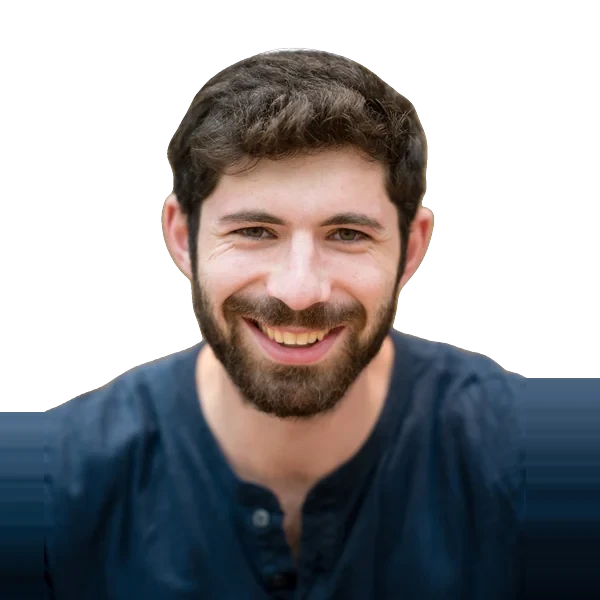
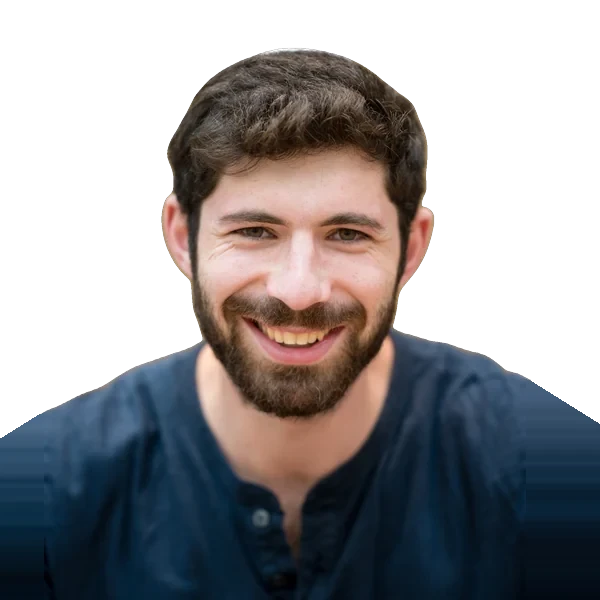
Bio pop-up: fixed-size rectangle photo; smoother Melnik shoulders

Changed region(s): [[0.87, 0.63, 1.0, 0.72], [0.0, 0.66, 0.06, 0.75]]

diff --git a/site/team.html b/site/team.html
@@ -9,7 +9,7 @@
 <link rel="icon" href="/media/rd/logo.webp">
 <link rel="preconnect" href="https://fonts.googleapis.com"><link rel="preconnect" href="https://fonts.gstatic.com" crossorigin>
 <link href="https://fonts.googleapis.com/css2?family=Nunito+Sans:wght@400;600;700;800&family=Roboto+Serif:opsz,wght@8..144,600;8..144,700;8..144,800&display=swap" rel="stylesheet">
-<link rel="stylesheet" href="/assets/rd.css?v=18">
+<link rel="stylesheet" href="/assets/rd.css?v=19">
 </head>
 <body>
 
@@ -35,7 +35,7 @@
 <section class="band purple" id="rabbis">
   <div class="wrap">
     <div class="h-center rv"><h2 class="h2">Our Team</h2><div class="rule" aria-hidden="true"></div><p class="az">(listed in alphabetical order)</p></div>
-    <div class="grid-team" id="madrichim"><button type="button" class="person" data-group="rabbis" data-name="Josh Aboody" data-role="Electives" data-img="/media/team2/josh-aboody.webp" data-bio="Mr. Josh Aboody was born and raised in Cleveland, Ohio, before spending two years in Israel- post high school. Upon his return to America, he went to Yeshivat Ner Yisrael in Baltimore followed by law school at the University of Maryland. An attorney, working for an investment bank in New York, Mr. Aboody and his family made aliyah in 2017 and he has taught Gemara and Jewish Thought in Yeshivat Moreshet Yerushalayim since 2018."><span class="ph"><img src="/media/team2/josh-aboody.webp" alt="" loading="lazy"></span><span class="nm">Josh Aboody</span><span class="rl">Electives</span><span class="more">VIEW BIO ⟶</span></button><button type="button" class="person" data-group="rabbis" data-name="Moshe Alouf" data-role="Night Seder · Electives" data-img="/media/team2/moshe-alouf.webp" data-bio="Moshe Alouf grew up in both Brooklyn, NY and Israel, giving him a unique perspective on Jewish life in the Diaspora and the Land of Israel. A proud graduate of Yeshivat Moreshet Yerushalayim (Class of 2017), he went on to serve in the Israel Defense Forces where he was a sergeant. Moshe holds a degree in Education from Herzog College in Israel and is dedicated to building meaningful connections between Torah learning, personal growth and strong educational values."><span class="ph"><img src="/media/team2/moshe-alouf.webp" alt="" loading="lazy"></span><span class="nm">Moshe Alouf</span><span class="rl">Night Seder · Electives</span><span class="more">VIEW BIO ⟶</span></button><button type="button" class="person" data-group="rabbis" data-name="Rabbi Shimon Hai Alouf" data-role="Halakha Seder Rabbi" data-img="/media/team2/shimon-hai-alouf.webp" data-bio="Born in Jerusalem, Israel, Rabbi Shimon Alouf was a close student and hazzan of Hakham Ovadia Yosef. He served for decades as the head rabbi of Ahaba VeAhva in Brooklyn, NY leading the Egyptian community as well as the Rosh Yeshivah of both Magen David Yeshivah and the Sephardic Rabbinical College, where he gave semikha to dozens of community rabbis. He is a highly respected halakhic authority of Sephardic Jewish communities around the world and upon moving back to Israel in 2022 has been teaching at Yeshivat Moreshet Yerushalayim."><span class="ph"><img src="/media/team2/shimon-hai-alouf.webp" alt="" loading="lazy"></span><span class="nm">Rabbi Shimon Hai Alouf</span><span class="rl">Halakha Seder Rabbi</span><span class="more">VIEW BIO ⟶</span></button><button type="button" class="person" data-group="madrichim" data-name="Etay Bakish" data-role="Head Madrich" data-img="/media/team2/etay-bakish.webp" data-bio="Born and raised in Israel, Etay Bakish studied at the Hesder Yeshiva in Ma’ale Adumim before serving as a combat soldier in the Golani Brigade. He has been a madrich at Yeshivat Moreshet Yerushalayim since Sept 2024."><span class="ph"><img src="/media/team2/etay-bakish.webp" alt="" loading="lazy"></span><span class="nm">Etay Bakish</span><span class="rl">Head Madrich</span><span class="more">VIEW BIO ⟶</span></button><button type="button" class="person" data-group="rabbis" data-name="Rabbi Edward Benjamin" data-role="Director of Recruitment" data-img="/media/team2/edward-benjamin.webp" data-bio="Rabbi Edward Benjamin, who has been involved with Yeshivat Moreshet Yerushalayim since its inception, graduated from Hillel Yeshiva High School and attended Yeshivat Torah Shraga for a year. He then attended and graduated CUNY with a BA degree in Philosophy and Jewish Studies while attending the Sephardic Rabbinical College as a part time student. While working in Yeshivat Moreshet Yerushalayim, Rabbi Benjamin is also pursuing semikha from the Chief Rabbinate in Israel and has, to date, passed the rabbinic exams on abelut, nidda, and huppa vkiddushin. He also holds a master&#x27;s degree in Jewish Education from Yeshiva University&#x27;s Azrieli School of Jewish Education."><span class="ph"><img src="/media/team2/edward-benjamin.webp" alt="" loading="lazy"></span><span class="nm">Rabbi Edward Benjamin</span><span class="rl">Director of Recruitment</span><span class="more">VIEW BIO ⟶</span></button><button type="button" class="person" data-group="rabbis" data-name="Dr. Charles Cohen" data-role="Night Seder" data-img="/media/team2/charles-cohen.webp" data-bio="Dr. Charles Cohen grew up in Brooklyn, New York, where he attended Magen David Yeshivah High School. Afterward, he spent a year studying at Yeshivah Torat Shraga before continuing his learning for five years in the Sephardic Rabbinical College half-day program under the guidance of Rabbi Shimon Alouf and Rabbi Harold Sutton. He went on to earn a bachelor’s degree in psychology from Brooklyn College and later received his Doctor of Optometry (O.D.) from the SUNY College of Optometry. He started his practice in 2021 and four years later made aliyah in the summer of 2025, with his wife and three children."><span class="ph"><img src="/media/team2/charles-cohen.webp" alt="" loading="lazy"></span><span class="nm">Dr. Charles Cohen</span><span class="rl">Night Seder</span><span class="more">VIEW BIO ⟶</span></button><button type="button" class="person" data-group="rabbis" data-name="Ezra Dweck" data-role="Afternoon Seder" data-img="/media/team2/ezra-dweck.webp" data-bio="Ezra Dweck grew up in Brooklyn, New York, where he attended Barkai Yeshivah Elementary School and DRS High School. He then spent three years studying at Yeshivat Birkat Moshe in Ma’ale Adumim, followed by four years as a madrich at Yeshivat Moreshet Yerushalayim, during which he earned a bachelor’s degree in Computer Science from Machon Lev. Afterward, he served as a software engineer in the IDF. Ezra currently lives with his wife in Nachlaot, Jerusalem, where he teaches at Yeshivat Moreshet Yerushalayim"><span class="ph"><img src="/media/team2/ezra-dweck.webp" alt="" loading="lazy"></span><span class="nm">Ezra Dweck</span><span class="rl">Afternoon Seder</span><span class="more">VIEW BIO ⟶</span></button><button type="button" class="person" data-group="rabbis" data-name="Rabbi Tanchum Gold" data-role="Morning Seder Rabbi" data-img="/media/team2/tanchum-gold.webp" data-bio="Born in Chicago, Rabbi Gold moved to Israel at a young age. He studied and taught at Yeshivat Birkat Moshe in Ma’ale Adumim for 15 years and served as an infantry soldier in the IDF. Rabbi Gold holds a Bachelor of Education degree in Talmud and Tanach, as well as a law degree, and received his Semikha (Yore Yoreh/Yadin Yadin) from the Chief Rabbinate of Israel. He has served as Rabbi of the American program in Yeshivat Birkat Moshe since 2010, teaches in the Yeshiva’s Kollel, and he actively sits as a Dayan in the local Beit Din. He is also the rabbi of a congregation in Chashmonaim and has been teaching in Yeshivat Moreshet Yerushalayim since 2017."><span class="ph"><img src="/media/team2/tanchum-gold.webp" alt="" loading="lazy"></span><span class="nm">Rabbi Tanchum Gold</span><span class="rl">Morning Seder Rabbi</span><span class="more">VIEW BIO ⟶</span></button><button type="button" class="person" data-group="madrichim" data-name="Yehuda Melnik" data-role="Head Madrich" data-img="/media/team2/yehuda-melnik.webp?v=2" data-bio="Born and raised in Israel, Yehuda Melnick studied at the Hesder Yeshiva in Ma’ale Adumim before serving as a combat soldier in the Golani Brigade. Currently he is studying in Hebrew University. He has been a madrich at Yeshivat Moreshet Yerushalayim since Sept 2024."><span class="ph"><img src="/media/team2/yehuda-melnik.webp?v=2" alt="" loading="lazy"></span><span class="nm">Yehuda Melnik</span><span class="rl">Head Madrich</span><span class="more">VIEW BIO ⟶</span></button><button type="button" class="person" data-group="rabbis" data-name="Rabbi Yitzchak Mirsky" data-role="Morning Seder Rabbi" data-img="/media/team2/yitzchak-mirsky.webp" data-bio="Born in Jerusalem, Rabbi Yitzchak Mirsky was a student of Rabbi Yechezkel Sarna of Yeshivat Chevron. Rabbi Mirsky served as Rosh Yeshiva of BMT and was a longtime educator of many students from the Sephardic community. In 2003, he moved to Brooklyn, where he served as Rosh Kollel of the Sephardic Rabbinical College and taught Semicha students, many of whom are practicing members of the Rabbinate today. He returned to Israel in 2014, where he continues to dedicate himself to educating youth. Rabbi Mirsky is the author of the well-known series Hegyonei Halacha, Haggadat Hegyonei Halacha and Haggadah leSepharadim. Currently, Rabbi Mirsky lives in Jerusalem, where he continues to write and teach in Yeshivat Moreshet Yerushalayim."><span class="ph"><img src="/media/team2/yitzchak-mirsky.webp" alt="" loading="lazy"></span><span class="nm">Rabbi Yitzchak Mirsky</span><span class="rl">Morning Seder Rabbi</span><span class="more">VIEW BIO ⟶</span></button><button type="button" class="person" data-group="rabbis" data-name="Gitta Neufeld" data-role="Administrator · Registrar" data-img="/media/team2/gitta-neufeld.webp" data-bio="Mrs. Gitta J. Neufeld earned her BA and Masters from Queens College in communications, with  a second Masters from Pace University in School Administration and Supervision. She is currently completing her doctoral dissertation, researching factors affecting young women&#x27;s post-secondary educational and career choices. Mrs. Neufeld has over 40 years of teaching and leadership experience in both yeshivot and public schools. Her past positions in the Sephardic Community included Director of Education at the Allegra Franco School of Educational Leadership, Director of Pedagogy for the Sephardic Rabbinical College and Educational Consultant and team leader of PROPEL Ed. In May 2012, the Covenant Foundation announced that, in recognition of her work in the Community, Mrs. Neufeld was a recipient of the prestigious Excellence in Education Award, which was presented at a national event in November 2012. The Neufelds made Aliyah in 2024, and she is currently Yeshivat Moreshet Yerushalayim‘s registrar, administrator and - her favorite title- &quot;school grandma.”"><span class="ph"><img src="/media/team2/gitta-neufeld.webp" alt="" loading="lazy"></span><span class="nm">Gitta Neufeld</span><span class="rl">Administrator · Registrar</span><span class="more">VIEW BIO ⟶</span></button><button type="button" class="person" data-group="rabbis" data-name="Rabbi Joseph Salem" data-role="Morning Seder Rabbi" data-img="/media/team2/joseph-salem.webp" data-bio="Rabbi Joseph Salem grew up in Brooklyn, New York, where he attended Shaare Torah Elementary and Magen David Yeshivah High School. Afterward, he studied in Mitzpeh Yericho, Israel, under the guidance of Rabbi Shabtai Sabato. He continued his learning in the Sephardic Rabbinical College from Rabbi Shimon Alouf and Rabbi Harold Sutton. He works in his family business, in the textiles and home fashion industry, teaches his daf yomi shiur on zoom and is a Morning Seder Rabbi at Yeshivat Moreshet Yerushalayim. He, his wife Loraine and their six children currently live in Alon Shvut."><span class="ph"><img src="/media/team2/joseph-salem.webp" alt="" loading="lazy"></span><span class="nm">Rabbi Joseph Salem</span><span class="rl">Morning Seder Rabbi</span><span class="more">VIEW BIO ⟶</span></button><button type="button" class="person" data-group="rabbis" data-name="Rabbi Yehoshua Shani" data-role="Executive Director" data-img="/media/team2/yehoshua-shani.webp" data-bio="Rabbi Yehoshua Shani, a resident of Kiryat Arba, studied at Yeshivat HaKotel and graduated from the Lifshitz Teachers’ College. He previously served as principal of the Orot Etzion School in Efrat, and later as principal of the Reishit Chochma School in Moscow. He also served as Rosh Yeshiva of Barkai Yeshivah in New York. Since its inception, he has been the Israel Executive Director of Yeshivat Moreshet Yerushalayim."><span class="ph"><img src="/media/team2/yehoshua-shani.webp" alt="" loading="lazy"></span><span class="nm">Rabbi Yehoshua Shani</span><span class="rl">Executive Director</span><span class="more">VIEW BIO ⟶</span></button><button type="button" class="person" data-group="rabbis" data-name="Rabbi Yaakov Tessler" data-role="Director of Curriculum &amp; Student Activities" data-img="/media/team2/yaakov-tessler.webp" data-bio="Our Director of Student Life &amp; Activities, Rabbi Yaakov Tessler’s family made aliyah from Flatbush. His father was one of the first students of Rabbi Shimon Alouf. Rabbi Tessler studied for 17 years in Yeshivat Merkaz HaRav, where he was a very close student of the Rosh Yeshivah, Rabbi Yaakov Shapira. Rabbi Tessler also holds a Bachelor&#x27;s degree in education from Orot Yisrael College for Education."><span class="ph"><img src="/media/team2/yaakov-tessler.webp" alt="" loading="lazy"></span><span class="nm">Rabbi Yaakov Tessler</span><span class="rl">Director of Curriculum &amp; Student Activities</span><span class="more">VIEW BIO ⟶</span></button></div>
+    <div class="grid-team" id="madrichim"><button type="button" class="person" data-group="rabbis" data-name="Josh Aboody" data-role="Electives" data-img="/media/team2/josh-aboody.webp" data-bio="Mr. Josh Aboody was born and raised in Cleveland, Ohio, before spending two years in Israel- post high school. Upon his return to America, he went to Yeshivat Ner Yisrael in Baltimore followed by law school at the University of Maryland. An attorney, working for an investment bank in New York, Mr. Aboody and his family made aliyah in 2017 and he has taught Gemara and Jewish Thought in Yeshivat Moreshet Yerushalayim since 2018."><span class="ph"><img src="/media/team2/josh-aboody.webp" alt="" loading="lazy"></span><span class="nm">Josh Aboody</span><span class="rl">Electives</span><span class="more">VIEW BIO ⟶</span></button><button type="button" class="person" data-group="rabbis" data-name="Moshe Alouf" data-role="Night Seder · Electives" data-img="/media/team2/moshe-alouf.webp" data-bio="Moshe Alouf grew up in both Brooklyn, NY and Israel, giving him a unique perspective on Jewish life in the Diaspora and the Land of Israel. A proud graduate of Yeshivat Moreshet Yerushalayim (Class of 2017), he went on to serve in the Israel Defense Forces where he was a sergeant. Moshe holds a degree in Education from Herzog College in Israel and is dedicated to building meaningful connections between Torah learning, personal growth and strong educational values."><span class="ph"><img src="/media/team2/moshe-alouf.webp" alt="" loading="lazy"></span><span class="nm">Moshe Alouf</span><span class="rl">Night Seder · Electives</span><span class="more">VIEW BIO ⟶</span></button><button type="button" class="person" data-group="rabbis" data-name="Rabbi Shimon Hai Alouf" data-role="Halakha Seder Rabbi" data-img="/media/team2/shimon-hai-alouf.webp" data-bio="Born in Jerusalem, Israel, Rabbi Shimon Alouf was a close student and hazzan of Hakham Ovadia Yosef. He served for decades as the head rabbi of Ahaba VeAhva in Brooklyn, NY leading the Egyptian community as well as the Rosh Yeshivah of both Magen David Yeshivah and the Sephardic Rabbinical College, where he gave semikha to dozens of community rabbis. He is a highly respected halakhic authority of Sephardic Jewish communities around the world and upon moving back to Israel in 2022 has been teaching at Yeshivat Moreshet Yerushalayim."><span class="ph"><img src="/media/team2/shimon-hai-alouf.webp" alt="" loading="lazy"></span><span class="nm">Rabbi Shimon Hai Alouf</span><span class="rl">Halakha Seder Rabbi</span><span class="more">VIEW BIO ⟶</span></button><button type="button" class="person" data-group="madrichim" data-name="Etay Bakish" data-role="Head Madrich" data-img="/media/team2/etay-bakish.webp" data-bio="Born and raised in Israel, Etay Bakish studied at the Hesder Yeshiva in Ma’ale Adumim before serving as a combat soldier in the Golani Brigade. He has been a madrich at Yeshivat Moreshet Yerushalayim since Sept 2024."><span class="ph"><img src="/media/team2/etay-bakish.webp" alt="" loading="lazy"></span><span class="nm">Etay Bakish</span><span class="rl">Head Madrich</span><span class="more">VIEW BIO ⟶</span></button><button type="button" class="person" data-group="rabbis" data-name="Rabbi Edward Benjamin" data-role="Director of Recruitment" data-img="/media/team2/edward-benjamin.webp" data-bio="Rabbi Edward Benjamin, who has been involved with Yeshivat Moreshet Yerushalayim since its inception, graduated from Hillel Yeshiva High School and attended Yeshivat Torah Shraga for a year. He then attended and graduated CUNY with a BA degree in Philosophy and Jewish Studies while attending the Sephardic Rabbinical College as a part time student. While working in Yeshivat Moreshet Yerushalayim, Rabbi Benjamin is also pursuing semikha from the Chief Rabbinate in Israel and has, to date, passed the rabbinic exams on abelut, nidda, and huppa vkiddushin. He also holds a master&#x27;s degree in Jewish Education from Yeshiva University&#x27;s Azrieli School of Jewish Education."><span class="ph"><img src="/media/team2/edward-benjamin.webp" alt="" loading="lazy"></span><span class="nm">Rabbi Edward Benjamin</span><span class="rl">Director of Recruitment</span><span class="more">VIEW BIO ⟶</span></button><button type="button" class="person" data-group="rabbis" data-name="Dr. Charles Cohen" data-role="Night Seder" data-img="/media/team2/charles-cohen.webp" data-bio="Dr. Charles Cohen grew up in Brooklyn, New York, where he attended Magen David Yeshivah High School. Afterward, he spent a year studying at Yeshivah Torat Shraga before continuing his learning for five years in the Sephardic Rabbinical College half-day program under the guidance of Rabbi Shimon Alouf and Rabbi Harold Sutton. He went on to earn a bachelor’s degree in psychology from Brooklyn College and later received his Doctor of Optometry (O.D.) from the SUNY College of Optometry. He started his practice in 2021 and four years later made aliyah in the summer of 2025, with his wife and three children."><span class="ph"><img src="/media/team2/charles-cohen.webp" alt="" loading="lazy"></span><span class="nm">Dr. Charles Cohen</span><span class="rl">Night Seder</span><span class="more">VIEW BIO ⟶</span></button><button type="button" class="person" data-group="rabbis" data-name="Ezra Dweck" data-role="Afternoon Seder" data-img="/media/team2/ezra-dweck.webp" data-bio="Ezra Dweck grew up in Brooklyn, New York, where he attended Barkai Yeshivah Elementary School and DRS High School. He then spent three years studying at Yeshivat Birkat Moshe in Ma’ale Adumim, followed by four years as a madrich at Yeshivat Moreshet Yerushalayim, during which he earned a bachelor’s degree in Computer Science from Machon Lev. Afterward, he served as a software engineer in the IDF. Ezra currently lives with his wife in Nachlaot, Jerusalem, where he teaches at Yeshivat Moreshet Yerushalayim"><span class="ph"><img src="/media/team2/ezra-dweck.webp" alt="" loading="lazy"></span><span class="nm">Ezra Dweck</span><span class="rl">Afternoon Seder</span><span class="more">VIEW BIO ⟶</span></button><button type="button" class="person" data-group="rabbis" data-name="Rabbi Tanchum Gold" data-role="Morning Seder Rabbi" data-img="/media/team2/tanchum-gold.webp" data-bio="Born in Chicago, Rabbi Gold moved to Israel at a young age. He studied and taught at Yeshivat Birkat Moshe in Ma’ale Adumim for 15 years and served as an infantry soldier in the IDF. Rabbi Gold holds a Bachelor of Education degree in Talmud and Tanach, as well as a law degree, and received his Semikha (Yore Yoreh/Yadin Yadin) from the Chief Rabbinate of Israel. He has served as Rabbi of the American program in Yeshivat Birkat Moshe since 2010, teaches in the Yeshiva’s Kollel, and he actively sits as a Dayan in the local Beit Din. He is also the rabbi of a congregation in Chashmonaim and has been teaching in Yeshivat Moreshet Yerushalayim since 2017."><span class="ph"><img src="/media/team2/tanchum-gold.webp" alt="" loading="lazy"></span><span class="nm">Rabbi Tanchum Gold</span><span class="rl">Morning Seder Rabbi</span><span class="more">VIEW BIO ⟶</span></button><button type="button" class="person" data-group="madrichim" data-name="Yehuda Melnik" data-role="Head Madrich" data-img="/media/team2/yehuda-melnik.webp?v=3" data-bio="Born and raised in Israel, Yehuda Melnick studied at the Hesder Yeshiva in Ma’ale Adumim before serving as a combat soldier in the Golani Brigade. Currently he is studying in Hebrew University. He has been a madrich at Yeshivat Moreshet Yerushalayim since Sept 2024."><span class="ph"><img src="/media/team2/yehuda-melnik.webp?v=3" alt="" loading="lazy"></span><span class="nm">Yehuda Melnik</span><span class="rl">Head Madrich</span><span class="more">VIEW BIO ⟶</span></button><button type="button" class="person" data-group="rabbis" data-name="Rabbi Yitzchak Mirsky" data-role="Morning Seder Rabbi" data-img="/media/team2/yitzchak-mirsky.webp" data-bio="Born in Jerusalem, Rabbi Yitzchak Mirsky was a student of Rabbi Yechezkel Sarna of Yeshivat Chevron. Rabbi Mirsky served as Rosh Yeshiva of BMT and was a longtime educator of many students from the Sephardic community. In 2003, he moved to Brooklyn, where he served as Rosh Kollel of the Sephardic Rabbinical College and taught Semicha students, many of whom are practicing members of the Rabbinate today. He returned to Israel in 2014, where he continues to dedicate himself to educating youth. Rabbi Mirsky is the author of the well-known series Hegyonei Halacha, Haggadat Hegyonei Halacha and Haggadah leSepharadim. Currently, Rabbi Mirsky lives in Jerusalem, where he continues to write and teach in Yeshivat Moreshet Yerushalayim."><span class="ph"><img src="/media/team2/yitzchak-mirsky.webp" alt="" loading="lazy"></span><span class="nm">Rabbi Yitzchak Mirsky</span><span class="rl">Morning Seder Rabbi</span><span class="more">VIEW BIO ⟶</span></button><button type="button" class="person" data-group="rabbis" data-name="Gitta Neufeld" data-role="Administrator · Registrar" data-img="/media/team2/gitta-neufeld.webp" data-bio="Mrs. Gitta J. Neufeld earned her BA and Masters from Queens College in communications, with  a second Masters from Pace University in School Administration and Supervision. She is currently completing her doctoral dissertation, researching factors affecting young women&#x27;s post-secondary educational and career choices. Mrs. Neufeld has over 40 years of teaching and leadership experience in both yeshivot and public schools. Her past positions in the Sephardic Community included Director of Education at the Allegra Franco School of Educational Leadership, Director of Pedagogy for the Sephardic Rabbinical College and Educational Consultant and team leader of PROPEL Ed. In May 2012, the Covenant Foundation announced that, in recognition of her work in the Community, Mrs. Neufeld was a recipient of the prestigious Excellence in Education Award, which was presented at a national event in November 2012. The Neufelds made Aliyah in 2024, and she is currently Yeshivat Moreshet Yerushalayim‘s registrar, administrator and - her favorite title- &quot;school grandma.”"><span class="ph"><img src="/media/team2/gitta-neufeld.webp" alt="" loading="lazy"></span><span class="nm">Gitta Neufeld</span><span class="rl">Administrator · Registrar</span><span class="more">VIEW BIO ⟶</span></button><button type="button" class="person" data-group="rabbis" data-name="Rabbi Joseph Salem" data-role="Morning Seder Rabbi" data-img="/media/team2/joseph-salem.webp" data-bio="Rabbi Joseph Salem grew up in Brooklyn, New York, where he attended Shaare Torah Elementary and Magen David Yeshivah High School. Afterward, he studied in Mitzpeh Yericho, Israel, under the guidance of Rabbi Shabtai Sabato. He continued his learning in the Sephardic Rabbinical College from Rabbi Shimon Alouf and Rabbi Harold Sutton. He works in his family business, in the textiles and home fashion industry, teaches his daf yomi shiur on zoom and is a Morning Seder Rabbi at Yeshivat Moreshet Yerushalayim. He, his wife Loraine and their six children currently live in Alon Shvut."><span class="ph"><img src="/media/team2/joseph-salem.webp" alt="" loading="lazy"></span><span class="nm">Rabbi Joseph Salem</span><span class="rl">Morning Seder Rabbi</span><span class="more">VIEW BIO ⟶</span></button><button type="button" class="person" data-group="rabbis" data-name="Rabbi Yehoshua Shani" data-role="Executive Director" data-img="/media/team2/yehoshua-shani.webp" data-bio="Rabbi Yehoshua Shani, a resident of Kiryat Arba, studied at Yeshivat HaKotel and graduated from the Lifshitz Teachers’ College. He previously served as principal of the Orot Etzion School in Efrat, and later as principal of the Reishit Chochma School in Moscow. He also served as Rosh Yeshiva of Barkai Yeshivah in New York. Since its inception, he has been the Israel Executive Director of Yeshivat Moreshet Yerushalayim."><span class="ph"><img src="/media/team2/yehoshua-shani.webp" alt="" loading="lazy"></span><span class="nm">Rabbi Yehoshua Shani</span><span class="rl">Executive Director</span><span class="more">VIEW BIO ⟶</span></button><button type="button" class="person" data-group="rabbis" data-name="Rabbi Yaakov Tessler" data-role="Director of Curriculum &amp; Student Activities" data-img="/media/team2/yaakov-tessler.webp" data-bio="Our Director of Student Life &amp; Activities, Rabbi Yaakov Tessler’s family made aliyah from Flatbush. His father was one of the first students of Rabbi Shimon Alouf. Rabbi Tessler studied for 17 years in Yeshivat Merkaz HaRav, where he was a very close student of the Rosh Yeshivah, Rabbi Yaakov Shapira. Rabbi Tessler also holds a Bachelor&#x27;s degree in education from Orot Yisrael College for Education."><span class="ph"><img src="/media/team2/yaakov-tessler.webp" alt="" loading="lazy"></span><span class="nm">Rabbi Yaakov Tessler</span><span class="rl">Director of Curriculum &amp; Student Activities</span><span class="more">VIEW BIO ⟶</span></button></div>
   </div>
 </section>
 <section class="band purple tight" id="staff" style="padding-top:0">

diff --git a/site/assets/rd.css b/site/assets/rd.css
@@ -560,9 +560,7 @@ dialog.bio .bio-in .ph img{border-radius:50%;width:100%;height:auto;aspect-ratio
   .grid-team .person .more{margin-top:0;align-self:end}
   /* bio: rectangle photo on gold, fills the left side */
   dialog.bio{max-width:900px}
-  dialog.bio .bio-in{grid-template-columns:320px minmax(0,1fr);min-height:400px}
-  dialog.bio .bio-in .ph{padding:0!important;display:block!important;background:var(--gold)}
-  dialog.bio .bio-in .ph img{border-radius:0!important;width:100%!important;height:100%!important;aspect-ratio:auto!important;object-fit:cover;object-position:50% 0;display:block}
+  dialog.bio .bio-in{grid-template-columns:300px minmax(0,1fr)}
   dialog.bio .bio-in .tx{justify-content:center;padding:40px 44px}
   .board{max-width:900px;white-space:nowrap}
   /* schedule: equal day columns, Friday football at the top */
@@ -680,8 +678,8 @@ dialog.bio .bio-in .ph img{border-radius:50%;width:100%;height:auto;aspect-ratio
 /* bio pop-up: same-size rectangle photo, zoomed out */
 dialog.bio .bio-in{align-items:start}
 dialog.bio .bio-in .ph{background:none;padding:36px 0 36px 36px;display:block;height:auto}
-dialog.bio .bio-in .ph img{display:block;width:244px;height:300px;aspect-ratio:auto;border-radius:0;background:var(--gold);object-fit:contain;object-position:50% 100%;padding:44px 22px 0;box-sizing:border-box}
+dialog.bio .bio-in .ph img{display:block;width:244px;height:300px;aspect-ratio:auto;border-radius:0;background:var(--gold);object-fit:contain;object-position:50% 100%;padding:24px 0 0;box-sizing:border-box}
 @media (max-width:820px){
   dialog.bio .bio-in .ph{padding:28px 0 0;height:auto;display:flex;justify-content:center}
-  dialog.bio .bio-in .ph img{width:200px;height:246px;padding:36px 18px 0}
+  dialog.bio .bio-in .ph img{width:200px;height:246px;padding:20px 0 0}
 }

diff --git a/site/404.html b/site/404.html
@@ -9,7 +9,7 @@
 <link rel="icon" href="/media/rd/logo.webp">
 <link rel="preconnect" href="https://fonts.googleapis.com"><link rel="preconnect" href="https://fonts.gstatic.com" crossorigin>
 <link href="https://fonts.googleapis.com/css2?family=Nunito+Sans:wght@400;600;700;800&family=Roboto+Serif:opsz,wght@8..144,600;8..144,700;8..144,800&display=swap" rel="stylesheet">
-<link rel="stylesheet" href="/assets/rd.css?v=18">
+<link rel="stylesheet" href="/assets/rd.css?v=19">
 </head>
 <body>
 

diff --git a/site/alumni.html b/site/alumni.html
@@ -9,7 +9,7 @@
 <link rel="icon" href="/media/rd/logo.webp">
 <link rel="preconnect" href="https://fonts.googleapis.com"><link rel="preconnect" href="https://fonts.gstatic.com" crossorigin>
 <link href="https://fonts.googleapis.com/css2?family=Nunito+Sans:wght@400;600;700;800&family=Roboto+Serif:opsz,wght@8..144,600;8..144,700;8..144,800&display=swap" rel="stylesheet">
-<link rel="stylesheet" href="/assets/rd.css?v=18">
+<link rel="stylesheet" href="/assets/rd.css?v=19">
 </head>
 <body>
 

diff --git a/site/application.html b/site/application.html
@@ -9,7 +9,7 @@
 <link rel="icon" href="/media/rd/logo.webp">
 <link rel="preconnect" href="https://fonts.googleapis.com"><link rel="preconnect" href="https://fonts.gstatic.com" crossorigin>
 <link href="https://fonts.googleapis.com/css2?family=Nunito+Sans:wght@400;600;700;800&family=Roboto+Serif:opsz,wght@8..144,600;8..144,700;8..144,800&display=swap" rel="stylesheet">
-<link rel="stylesheet" href="/assets/rd.css?v=18">
+<link rel="stylesheet" href="/assets/rd.css?v=19">
 </head>
 <body>
 

diff --git a/site/campus.html b/site/campus.html
@@ -9,7 +9,7 @@
 <link rel="icon" href="/media/rd/logo.webp">
 <link rel="preconnect" href="https://fonts.googleapis.com"><link rel="preconnect" href="https://fonts.gstatic.com" crossorigin>
 <link href="https://fonts.googleapis.com/css2?family=Nunito+Sans:wght@400;600;700;800&family=Roboto+Serif:opsz,wght@8..144,600;8..144,700;8..144,800&display=swap" rel="stylesheet">
-<link rel="stylesheet" href="/assets/rd.css?v=18">
+<link rel="stylesheet" href="/assets/rd.css?v=19">
 </head>
 <body>
 

diff --git a/site/codeofconduct.html b/site/codeofconduct.html
@@ -9,7 +9,7 @@
 <link rel="icon" href="/media/rd/logo.webp">
 <link rel="preconnect" href="https://fonts.googleapis.com"><link rel="preconnect" href="https://fonts.gstatic.com" crossorigin>
 <link href="https://fonts.googleapis.com/css2?family=Nunito+Sans:wght@400;600;700;800&family=Roboto+Serif:opsz,wght@8..144,600;8..144,700;8..144,800&display=swap" rel="stylesheet">
-<link rel="stylesheet" href="/assets/rd.css?v=18">
+<link rel="stylesheet" href="/assets/rd.css?v=19">
 </head>
 <body>
 

diff --git a/site/copy-of-ovaida-buddy-sutton.html b/site/copy-of-ovaida-buddy-sutton.html
@@ -9,7 +9,7 @@
 <link rel="icon" href="/media/rd/logo.webp">
 <link rel="preconnect" href="https://fonts.googleapis.com"><link rel="preconnect" href="https://fonts.gstatic.com" crossorigin>
 <link href="https://fonts.googleapis.com/css2?family=Nunito+Sans:wght@400;600;700;800&family=Roboto+Serif:opsz,wght@8..144,600;8..144,700;8..144,800&display=swap" rel="stylesheet">
-<link rel="stylesheet" href="/assets/rd.css?v=18">
+<link rel="stylesheet" href="/assets/rd.css?v=19">
 </head>
 <body>
 

diff --git a/site/donate.html b/site/donate.html
@@ -9,7 +9,7 @@
 <link rel="icon" href="/media/rd/logo.webp">
 <link rel="preconnect" href="https://fonts.googleapis.com"><link rel="preconnect" href="https://fonts.gstatic.com" crossorigin>
 <link href="https://fonts.googleapis.com/css2?family=Nunito+Sans:wght@400;600;700;800&family=Roboto+Serif:opsz,wght@8..144,600;8..144,700;8..144,800&display=swap" rel="stylesheet">
-<link rel="stylesheet" href="/assets/rd.css?v=18">
+<link rel="stylesheet" href="/assets/rd.css?v=19">
 </head>
 <body>
 

diff --git a/site/faq.html b/site/faq.html
@@ -9,7 +9,7 @@
 <link rel="icon" href="/media/rd/logo.webp">
 <link rel="preconnect" href="https://fonts.googleapis.com"><link rel="preconnect" href="https://fonts.gstatic.com" crossorigin>
 <link href="https://fonts.googleapis.com/css2?family=Nunito+Sans:wght@400;600;700;800&family=Roboto+Serif:opsz,wght@8..144,600;8..144,700;8..144,800&display=swap" rel="stylesheet">
-<link rel="stylesheet" href="/assets/rd.css?v=18">
+<link rel="stylesheet" href="/assets/rd.css?v=19">
 </head>
 <body>
 

diff --git a/site/index.html b/site/index.html
@@ -9,7 +9,7 @@
 <link rel="icon" href="/media/rd/logo.webp">
 <link rel="preconnect" href="https://fonts.googleapis.com"><link rel="preconnect" href="https://fonts.gstatic.com" crossorigin>
 <link href="https://fonts.googleapis.com/css2?family=Nunito+Sans:wght@400;600;700;800&family=Roboto+Serif:opsz,wght@8..144,600;8..144,700;8..144,800&display=swap" rel="stylesheet">
-<link rel="stylesheet" href="/assets/rd.css?v=18">
+<link rel="stylesheet" href="/assets/rd.css?v=19">
 </head>
 <body>
 

diff --git a/site/media.html b/site/media.html
@@ -9,7 +9,7 @@
 <link rel="icon" href="/media/rd/logo.webp">
 <link rel="preconnect" href="https://fonts.googleapis.com"><link rel="preconnect" href="https://fonts.gstatic.com" crossorigin>
 <link href="https://fonts.googleapis.com/css2?family=Nunito+Sans:wght@400;600;700;800&family=Roboto+Serif:opsz,wght@8..144,600;8..144,700;8..144,800&display=swap" rel="stylesheet">
-<link rel="stylesheet" href="/assets/rd.css?v=18">
+<link rel="stylesheet" href="/assets/rd.css?v=19">
 </head>
 <body>
 
